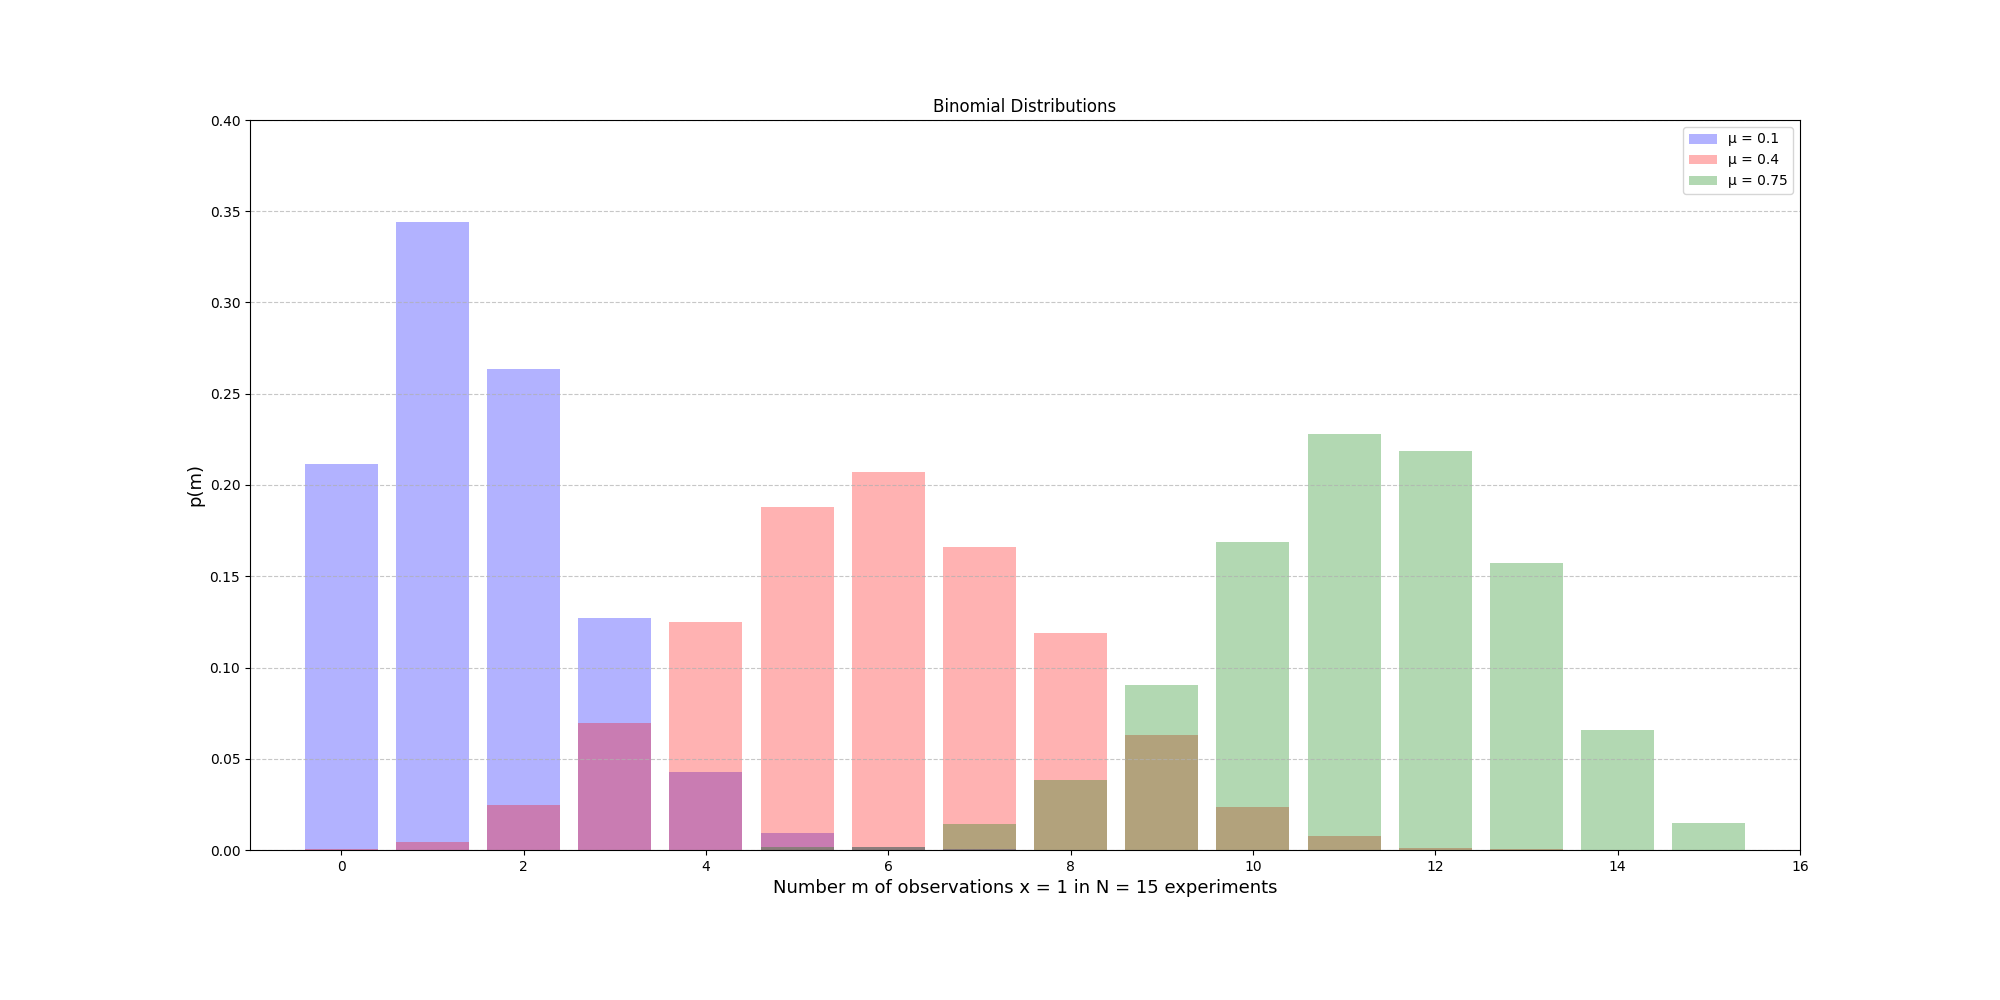
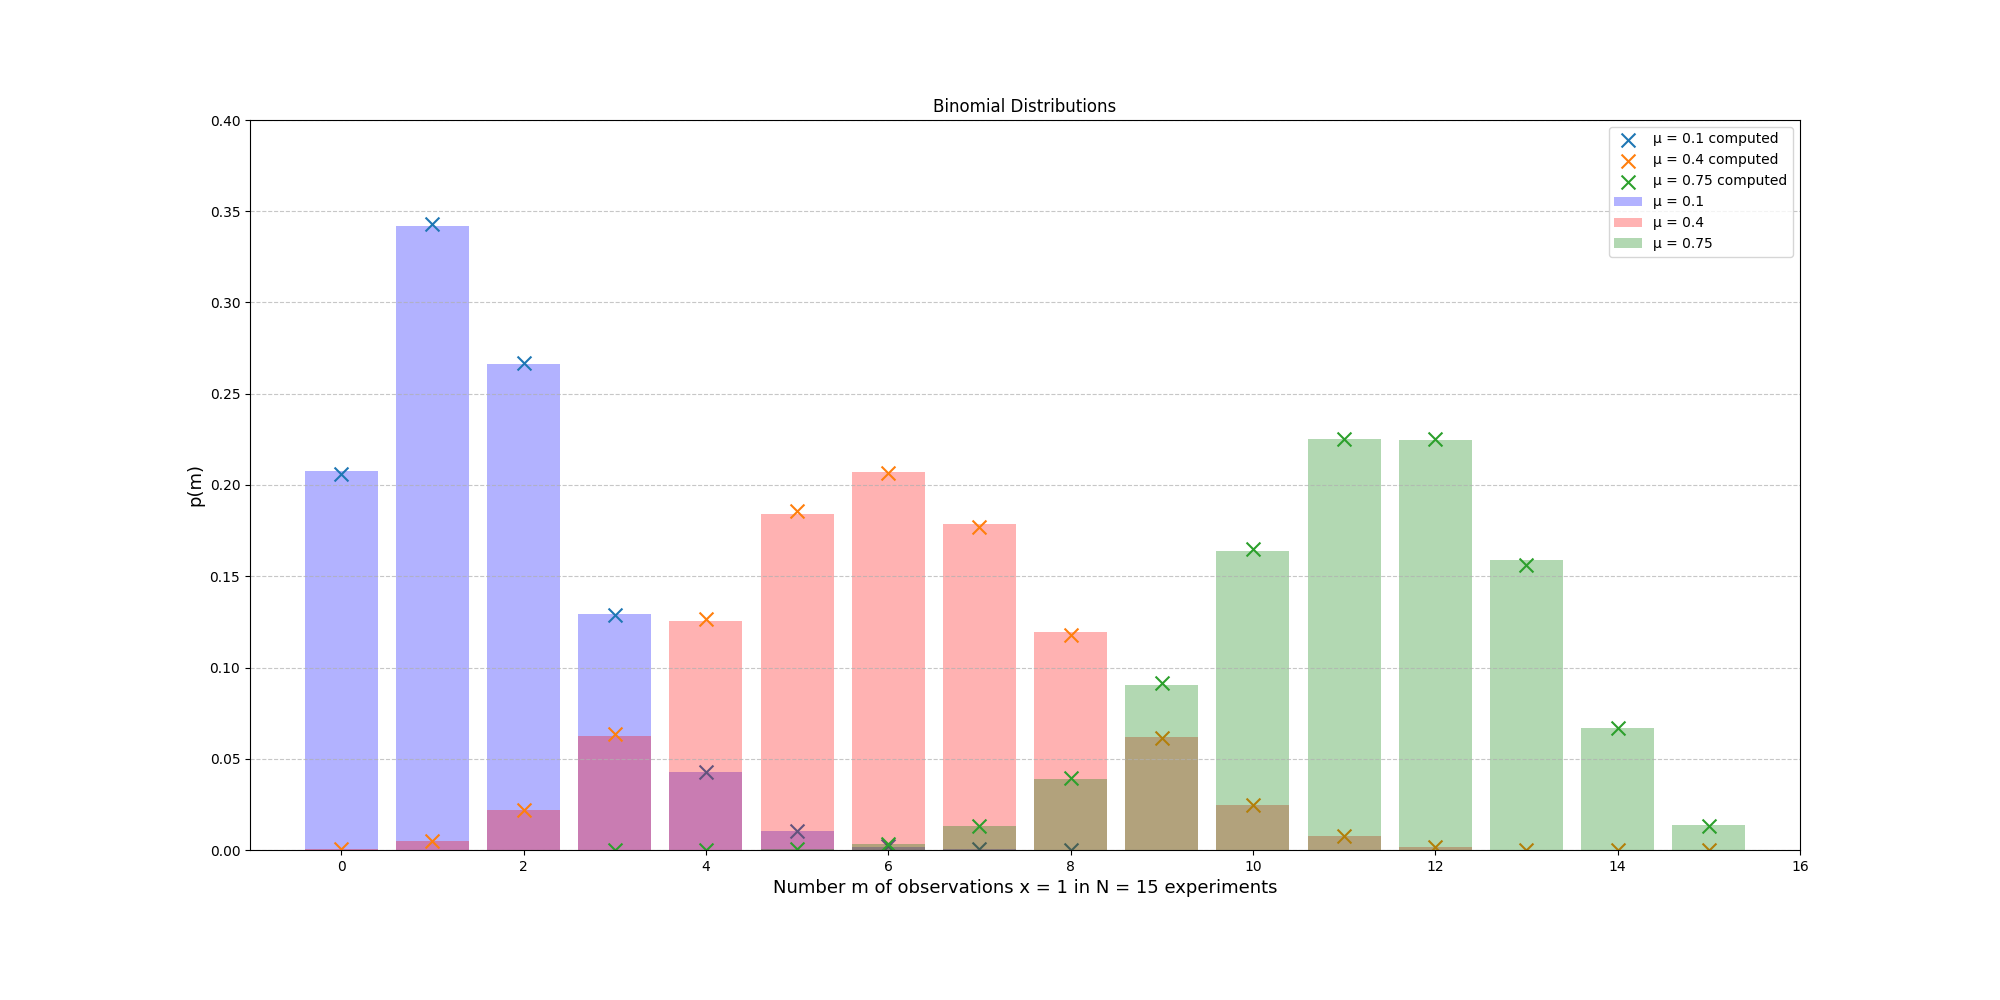
compute and plot probability distributions

diff --git a/distributions/binomial.py b/distributions/binomial.py
@@ -1,3 +1,5 @@
+import math
+
 import numpy as np
 
 import plot
@@ -5,7 +7,21 @@ import plot
 
 np.random.seed(0)
 
-NO_OF_EXPERIMENTS = 10000
+NO_OF_EXPERIMENTS = 100000
+
+
+def compute_probability_density(mu: float, true_counts: list):
+    # n!/(m! * (n-m)!) * mu^m * (1-mu)^(n-m)
+    probabilities = []
+    for true_count in true_counts:
+        prob = (
+            math.factorial(15)
+            / (math.factorial(true_count) * math.factorial(15 - true_count))
+            * mu**true_count
+            * (1 - mu) ** (15 - true_count)
+        )
+        probabilities.append(prob)
+    return probabilities
 
 
 def get_probability_distribution(mu: float, n: int) -> tuple[list]:
@@ -18,14 +34,20 @@ def get_probability_distribution(mu: float, n: int) -> tuple[list]:
     for true_count, count in zip(unique, counts):
         x.append(true_count)
         y.append(count / NO_OF_EXPERIMENTS)
-    return x, y
+    computed_probs = compute_probability_density(mu, x)
+    return x, y, computed_probs
 
 
 if __name__ == "__main__":
     probability_distibutions = {}
     distribution_means = {0.1: "blue", 0.4: "red", 0.75: "green"}
     for mu, color in distribution_means.items():
-        true_count, count = get_probability_distribution(mu, 15)
-        probability_distibutions[mu] = {"x": true_count, "y": count, "color": color}
+        true_count, probs, computed_probs = get_probability_distribution(mu, 15)
+        probability_distibutions[mu] = {
+            "x": true_count,
+            "y": probs,
+            "y_computed": computed_probs,
+            "color": color,
+        }
 
     plot.plot_binomial_distributions(probability_distibutions)

diff --git a/distributions/plot.py b/distributions/plot.py
@@ -14,6 +14,13 @@ def plot_binomial_distributions(probability_distibutions: dict) -> None:
             color=probability_distibution["color"],
             alpha=0.3,
         )
+        ax.scatter(
+            probability_distibution["x"],
+            probability_distibution["y_computed"],
+            marker="x",
+            label=f"µ = {mu} computed",
+            s=100
+        )
 
     ax.grid(axis="y", linestyle="--", alpha=0.7, zorder=0)
 
